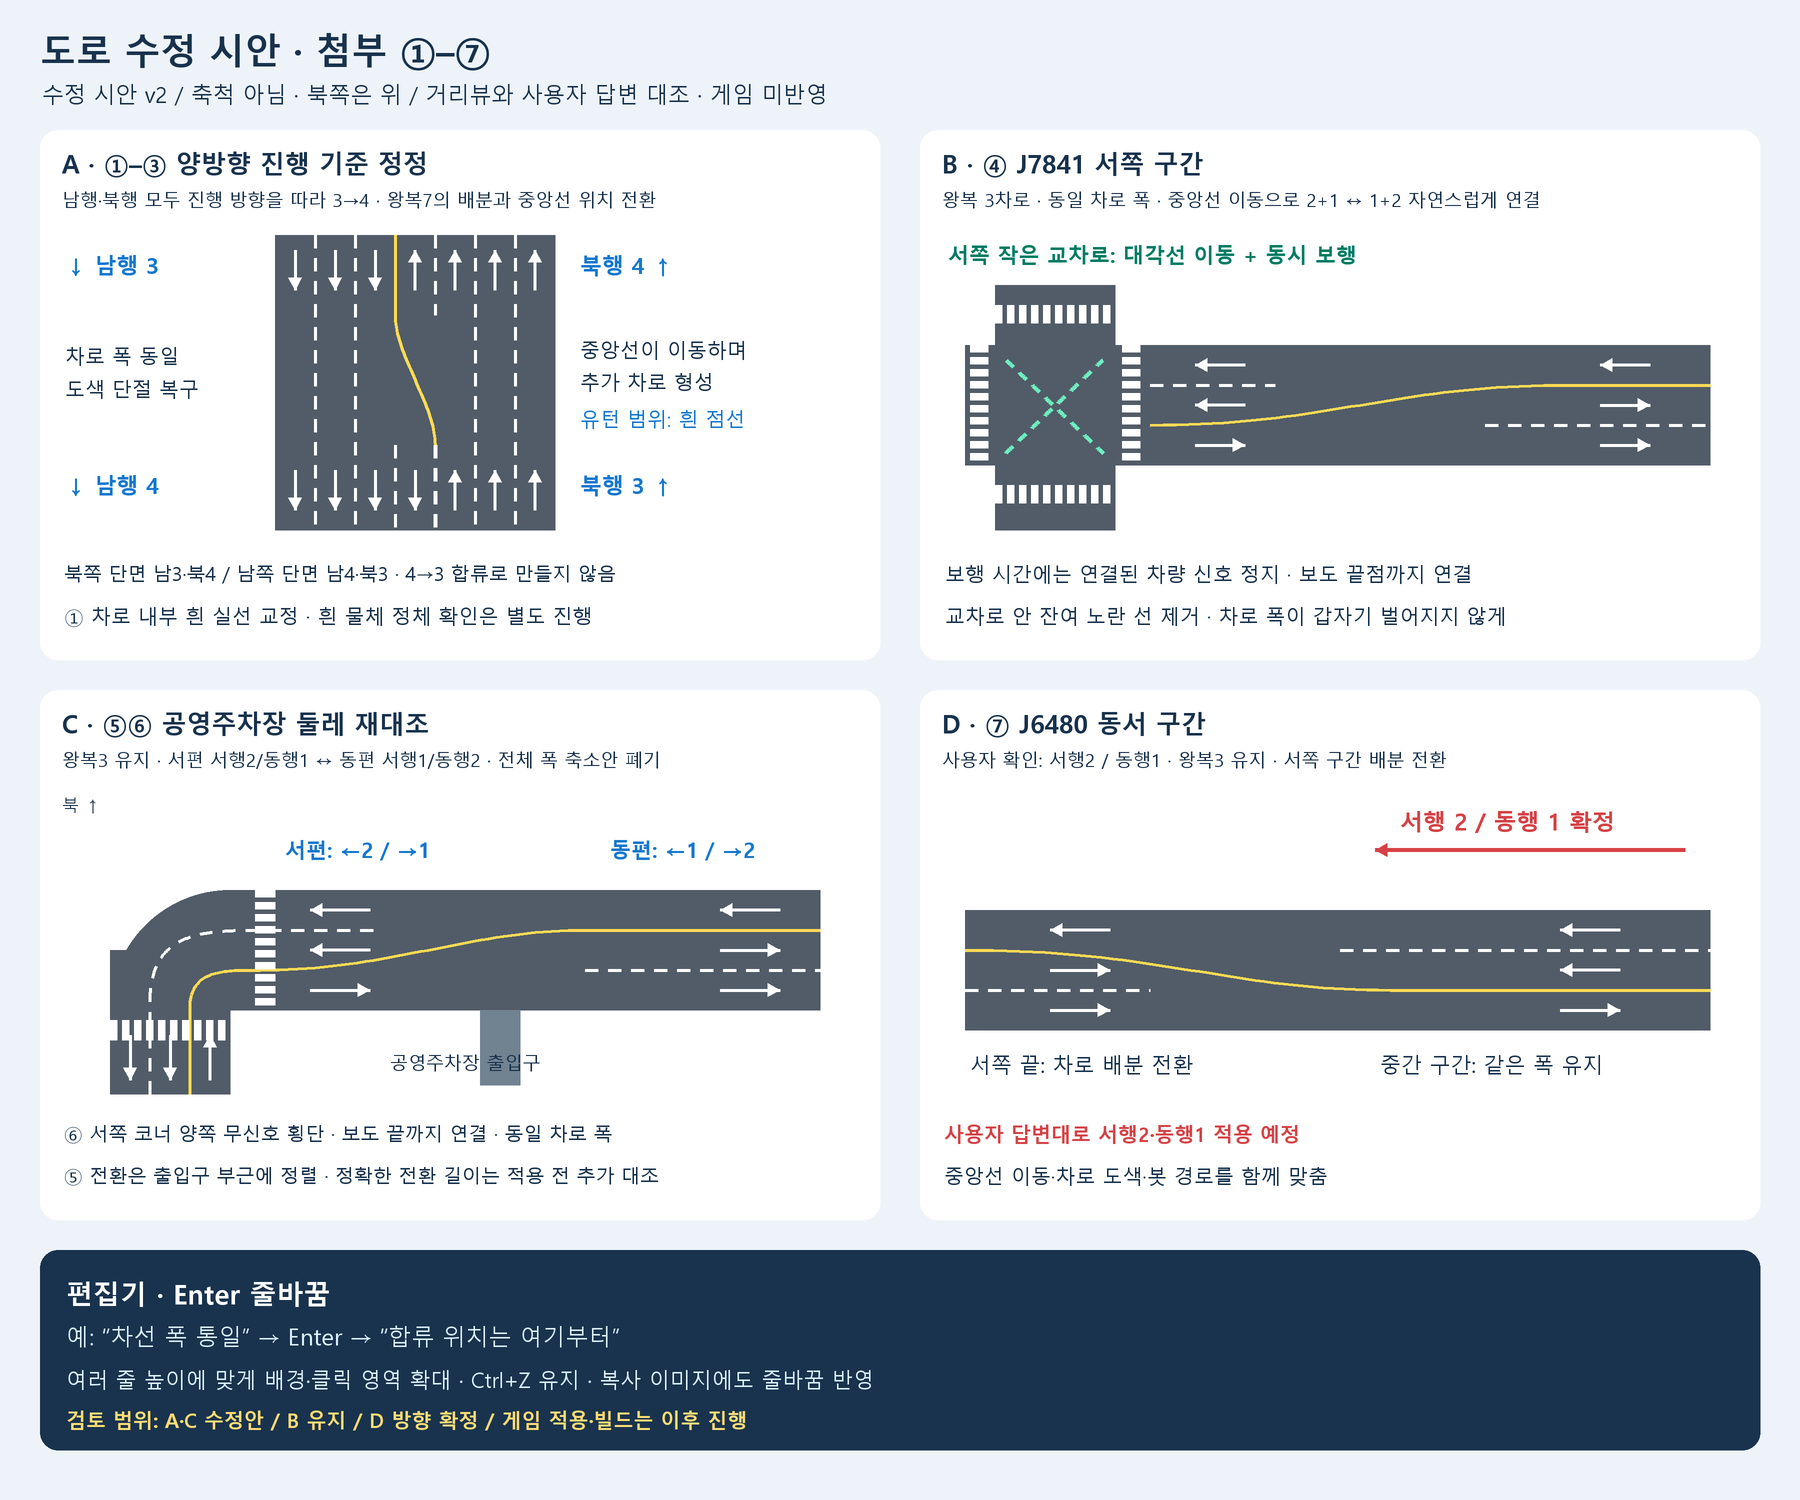
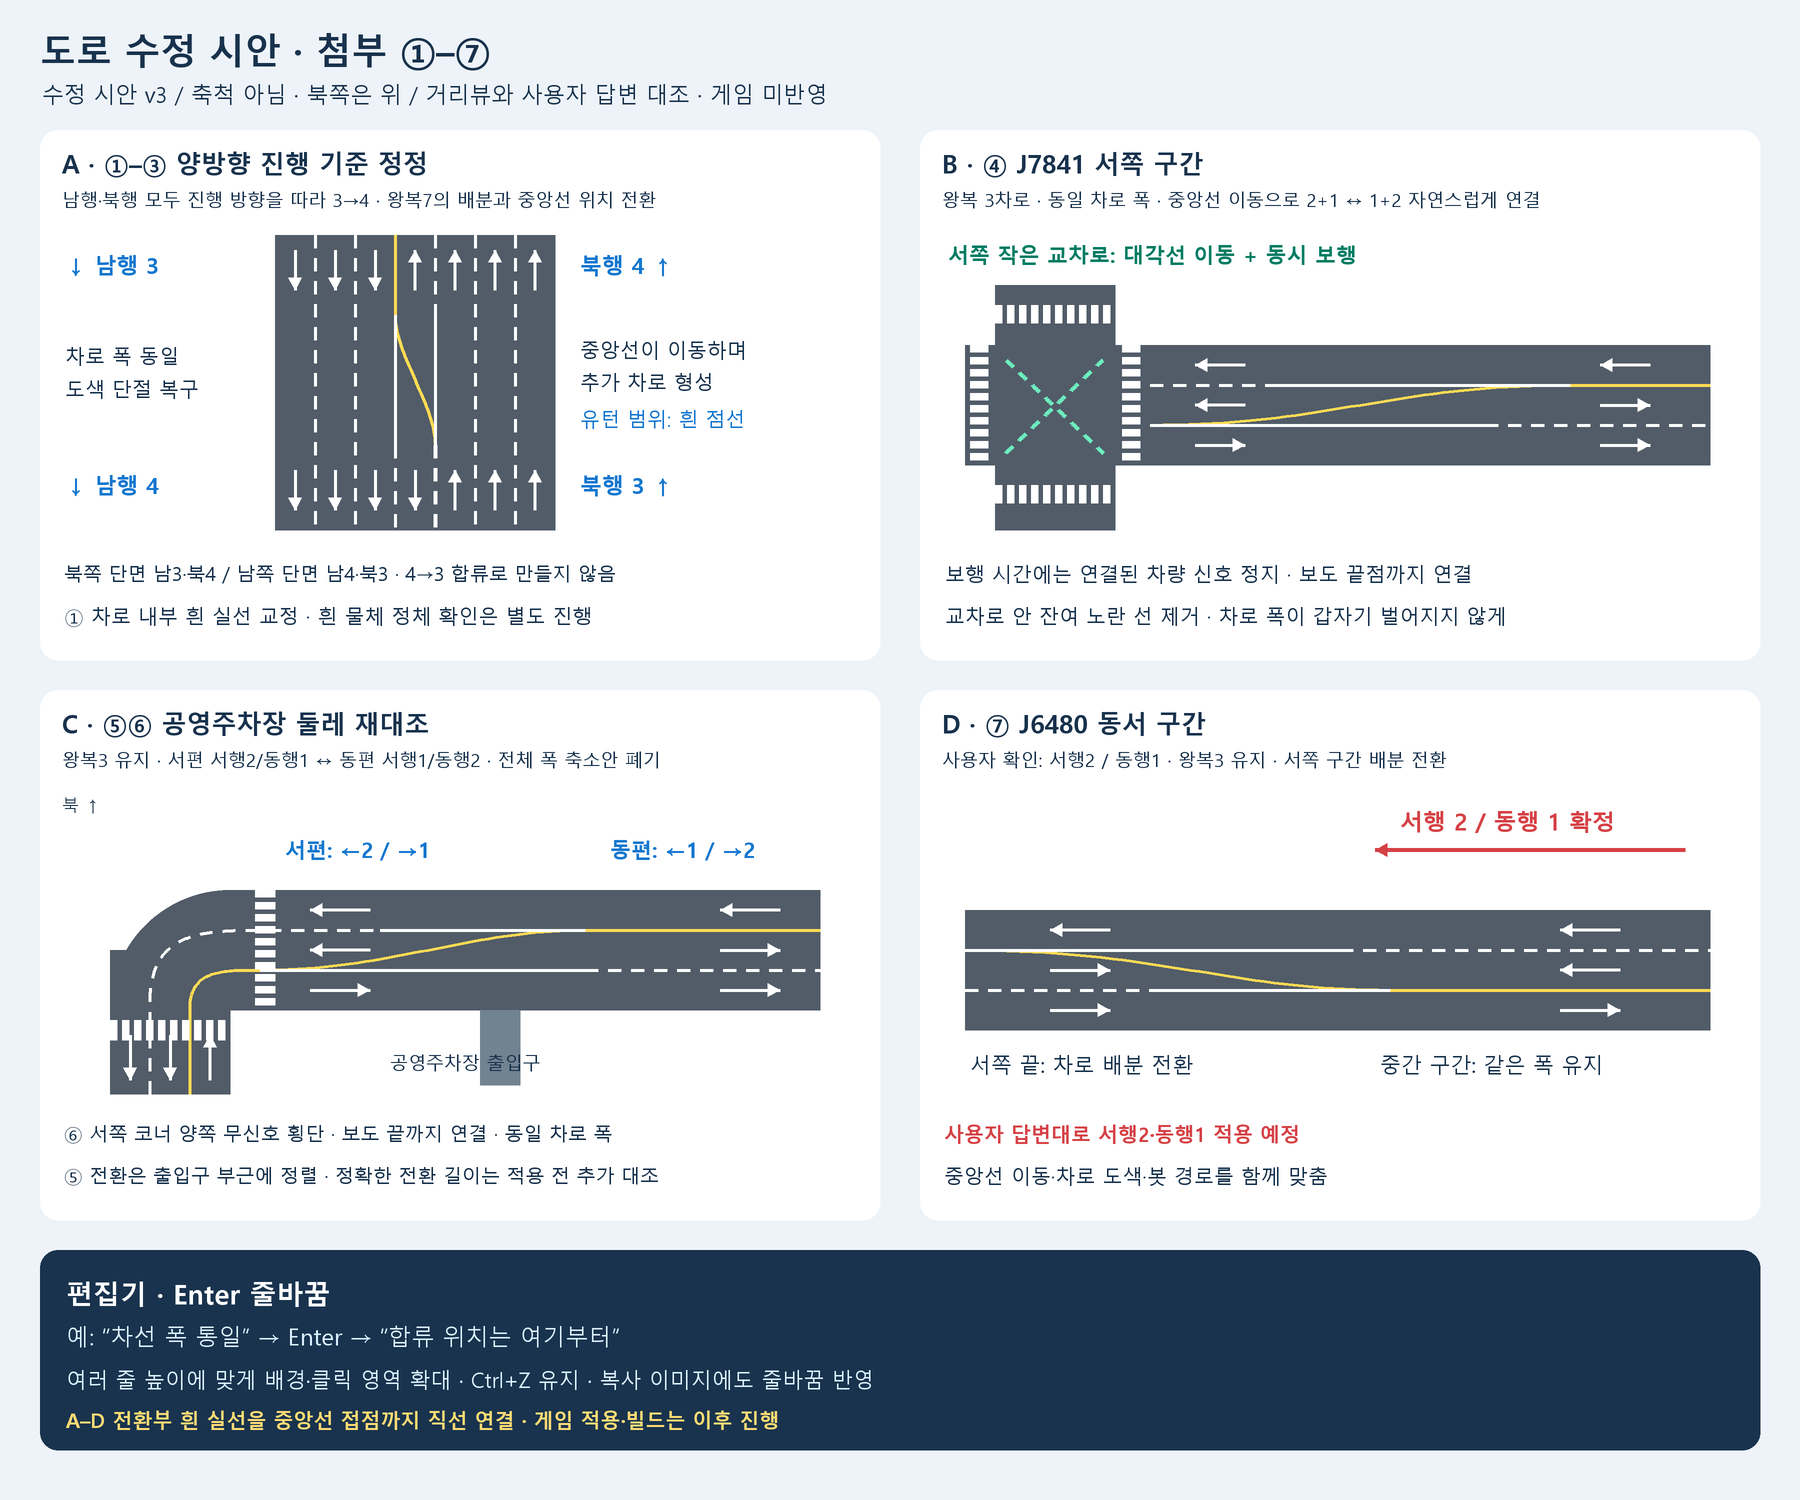
Refine lane transition strokes and four-corner island proposal

Changed region(s): [[0.0311, 0.92, 0.4356, 0.9507], [0.2178, 0.2147, 0.2489, 0.276]]

diff --git a/docs/work-history/2026-11-17-seven-road-proposal.md b/docs/work-history/2026-11-17-seven-road-proposal.md
@@ -39,3 +39,10 @@
 - 변경: 시안 PNG, 이 기록, LATEST의 해당 시안 문단. 생성 스크립트는 동일 `artifacts/j7841-report/proposal.py`.
 - 새 게임 코드·지도·빌드·테스트·push 없음. 기존 r46 및 사용자 변경은 보존했다. Enter 줄바꿈은 여전히 미구현이다.
 - 다음: 사용자 시안 검토, C 전환 범위 세부 대조, 승인 범위 구현과 회귀/빌드. 기존 r46 배포 manifest 마무리는 별도 유지.
+
+## v3 — J7973 네 모서리 섬·우회전 분리 및 도색 접점
+
+- 사용자 새 첨부 3장을 기준으로 요구를 추가했다. J7973 남측 x792.6545/z339.640839와 북측 x801.9835/z477.33493의 왕복7, 일정 차로 폭과 도색 정렬, 긴 우회전 접근 연결을 기록했다.
+- 교차로 네 모서리에 작은 신호등 섬, 인도와 섬 사이의 독립 우회전 통로를 갖는 별도 개념도 `docs/content-design/images/eungye-j7973-islands-proposal.png`를 작성했다. 실제 비스듬한 교차각·방향별 배분·분기 길이·섬 치수는 이 개념도로 확정하지 않는다.
+- A/B/C/D의 흰 차선은 전환부에서 잘라 두지 않고 중앙선 곡선의 접점까지 직선 실선으로 연장했다. 기존 일반 구간의 점선과 유턴 허용 범위의 흰 점선은 별개다.
+- 두 PNG를 재생성하여 직접 열어 확인했다. 새 게임 코드/지도 구현, 테스트/빌드/push는 아직 없음. 사용자 시안 우선 검토 범위를 유지하며 기존 r46 및 다른 사용자 변경을 보존했다.

diff --git a/docs/work-history/LATEST.md b/docs/work-history/LATEST.md
@@ -1,6 +1,6 @@
 # 최신 작업 이력
 
-2026-11-17 첨부7장 도로 시안 v2: 사용자 정정과 거리뷰 대조로 A 양방향 진행 기준3→4·왕복7 배분 전환, C 왕복3 유지·주차장 전후 배분 전환으로 재작성. D 서행2/동행1 확정. 새 게임 적용은 검토 대기, C 전환 길이 추가 대조·편집기 Enter 미구현. 기존 미커밋 r46/배포 manifest 마무리는 별도 보존. [수정 시안·근거·남은 항목](2026-11-17-seven-road-proposal.md).
+2026-11-17 도로 시안 v3: A~D 전환부 흰 실선을 중앙선 접점까지 직선 연결. J7973 네 모서리 신호등 섬과 섬 바깥 우회전 통로·남북 왕복7 도식을 추가했다. 게임 미반영/검토 대기, 실제 분기 길이·섬 치수 추가 대조 및 Enter 미구현. 기존 r46 미커밋 작업은 보존. [시안·근거·남은 항목](2026-11-17-seven-road-proposal.md).
 
 2026-11-17 도로 이미지 편집 후속: Ctrl+Z, 글씨 영역 전체 클릭 수정, 글자 크기에 맞는 배경/선택 영역, 이미지 전용 클립보드로 좌표 텍스트 우선 붙여넣기를 수정했다. 모델14·Player16·BuildHybrid 통과. 지도 r45·필수 입력 유지. [사용법·검증](2026-11-17-road-annotation-edit-fix.md). 후속 요청으로 빌드 669fef6까지 main 푸시 및 원격 해시 일치 확인.
 
